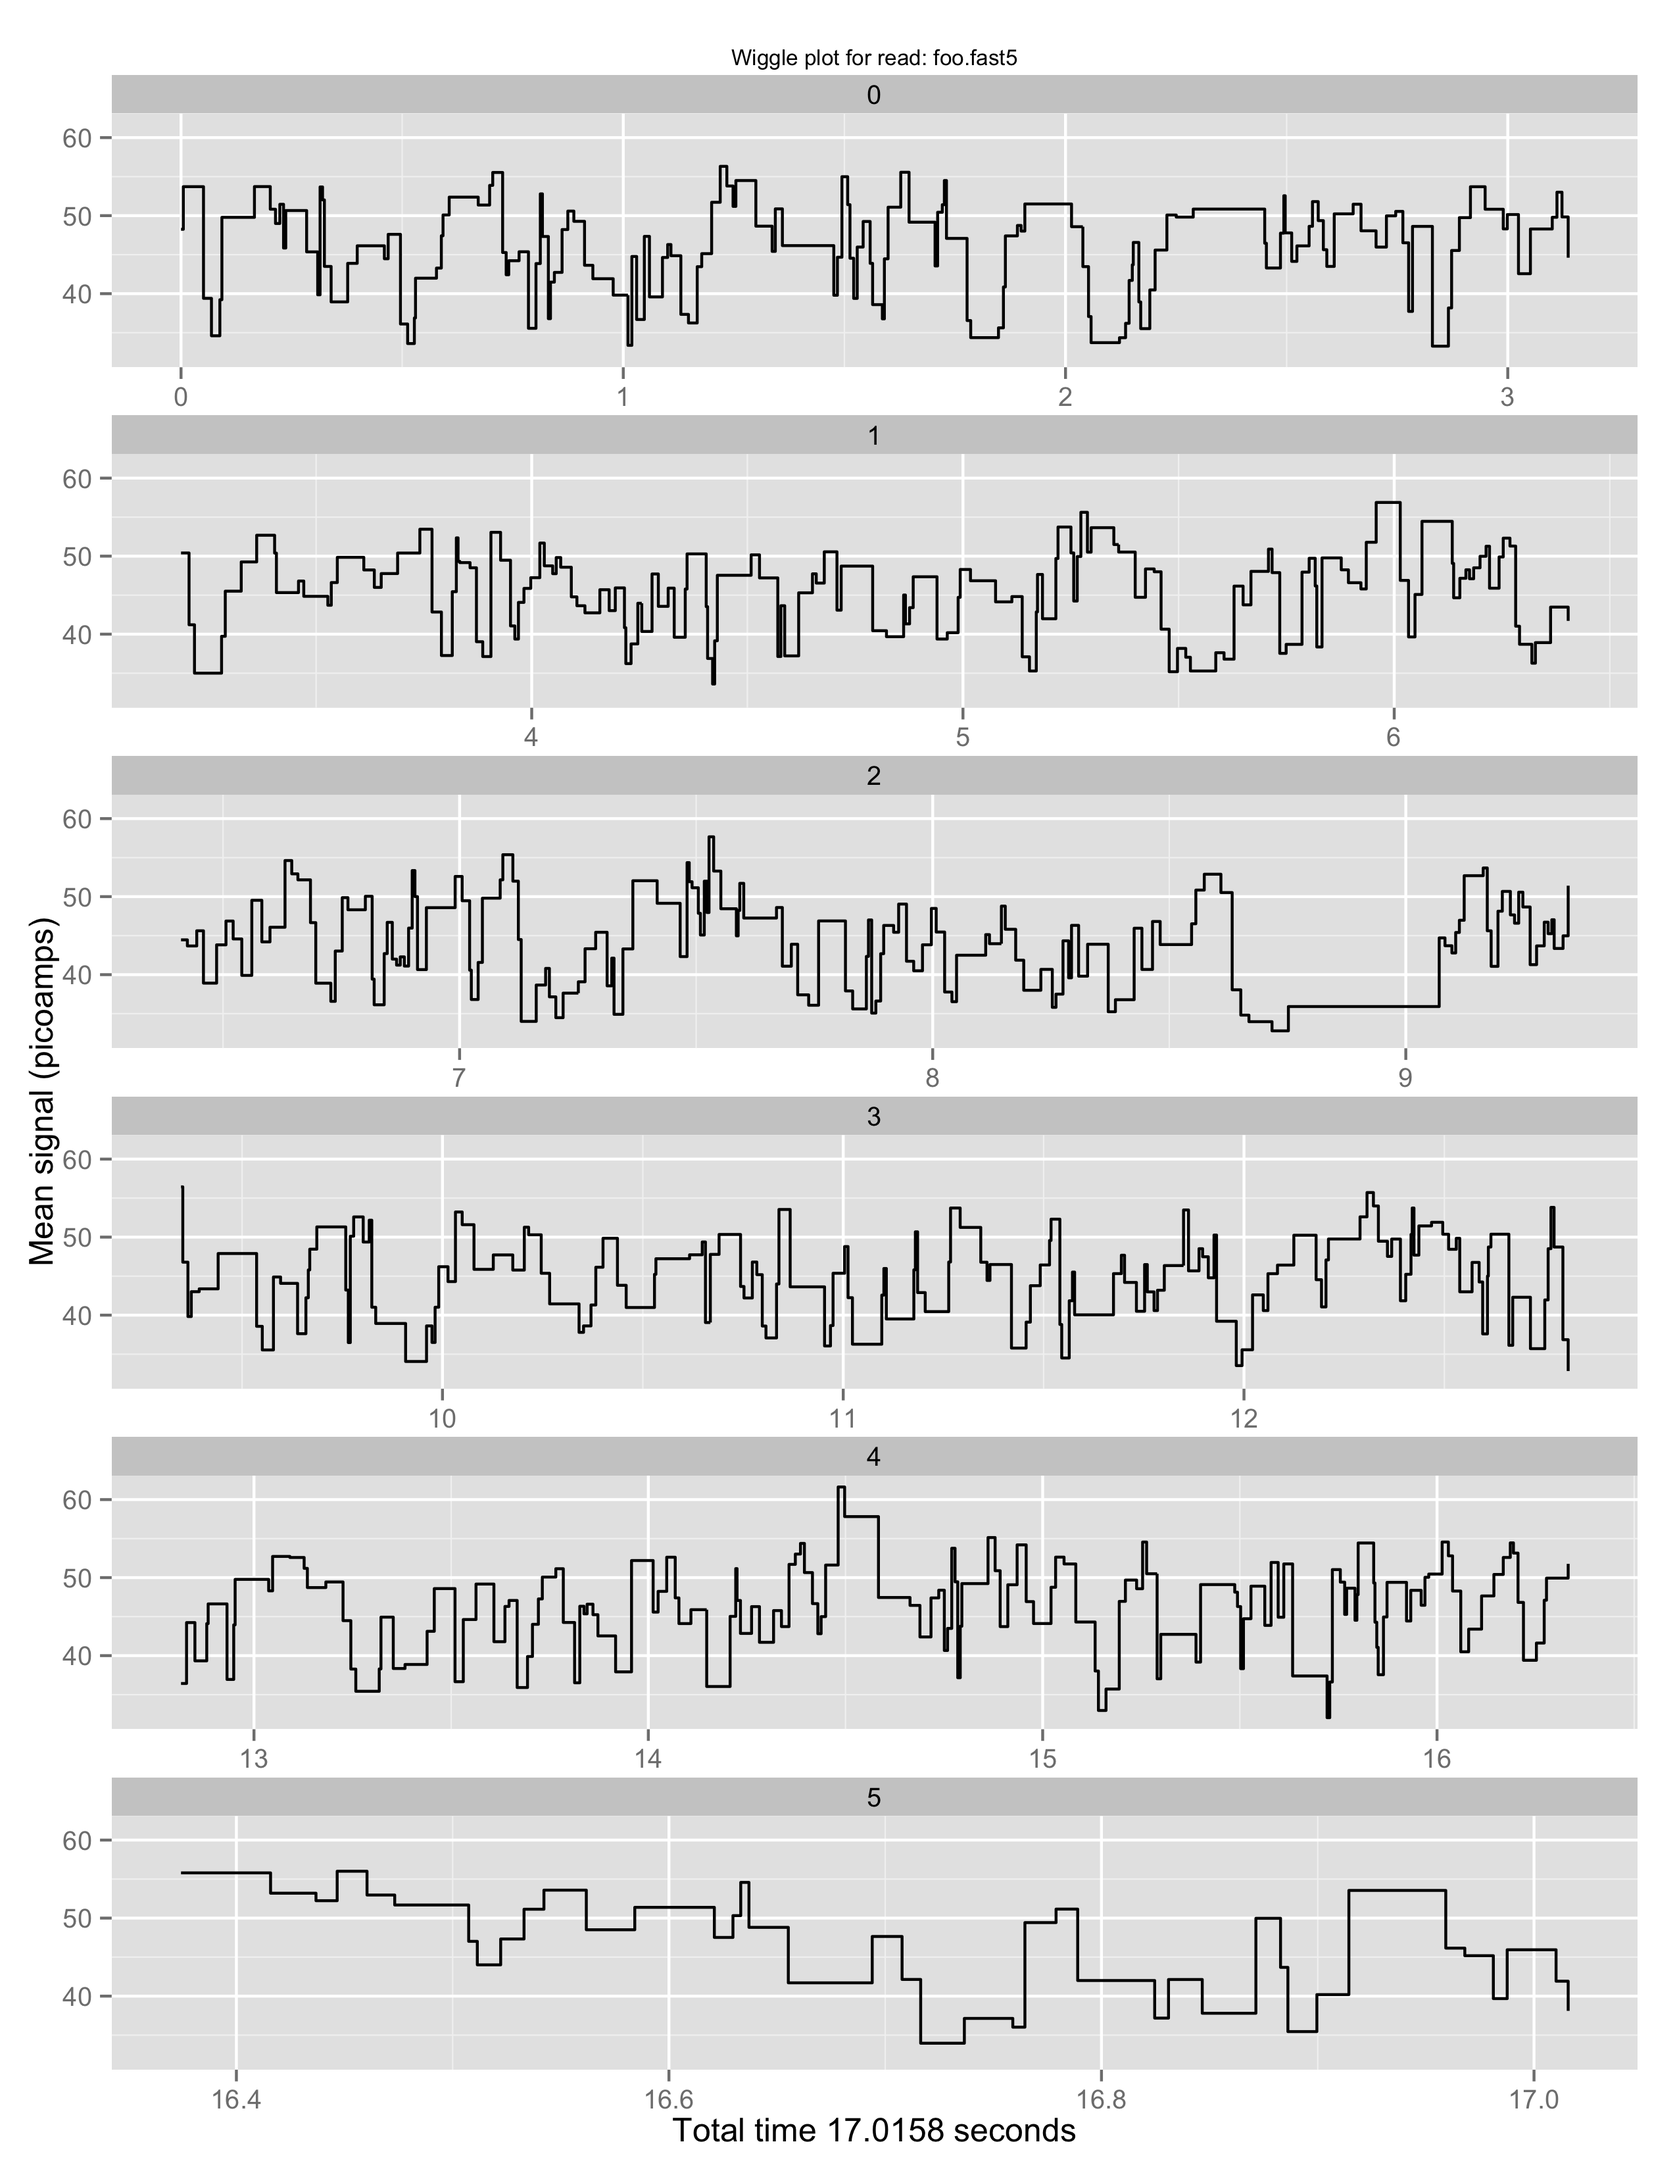
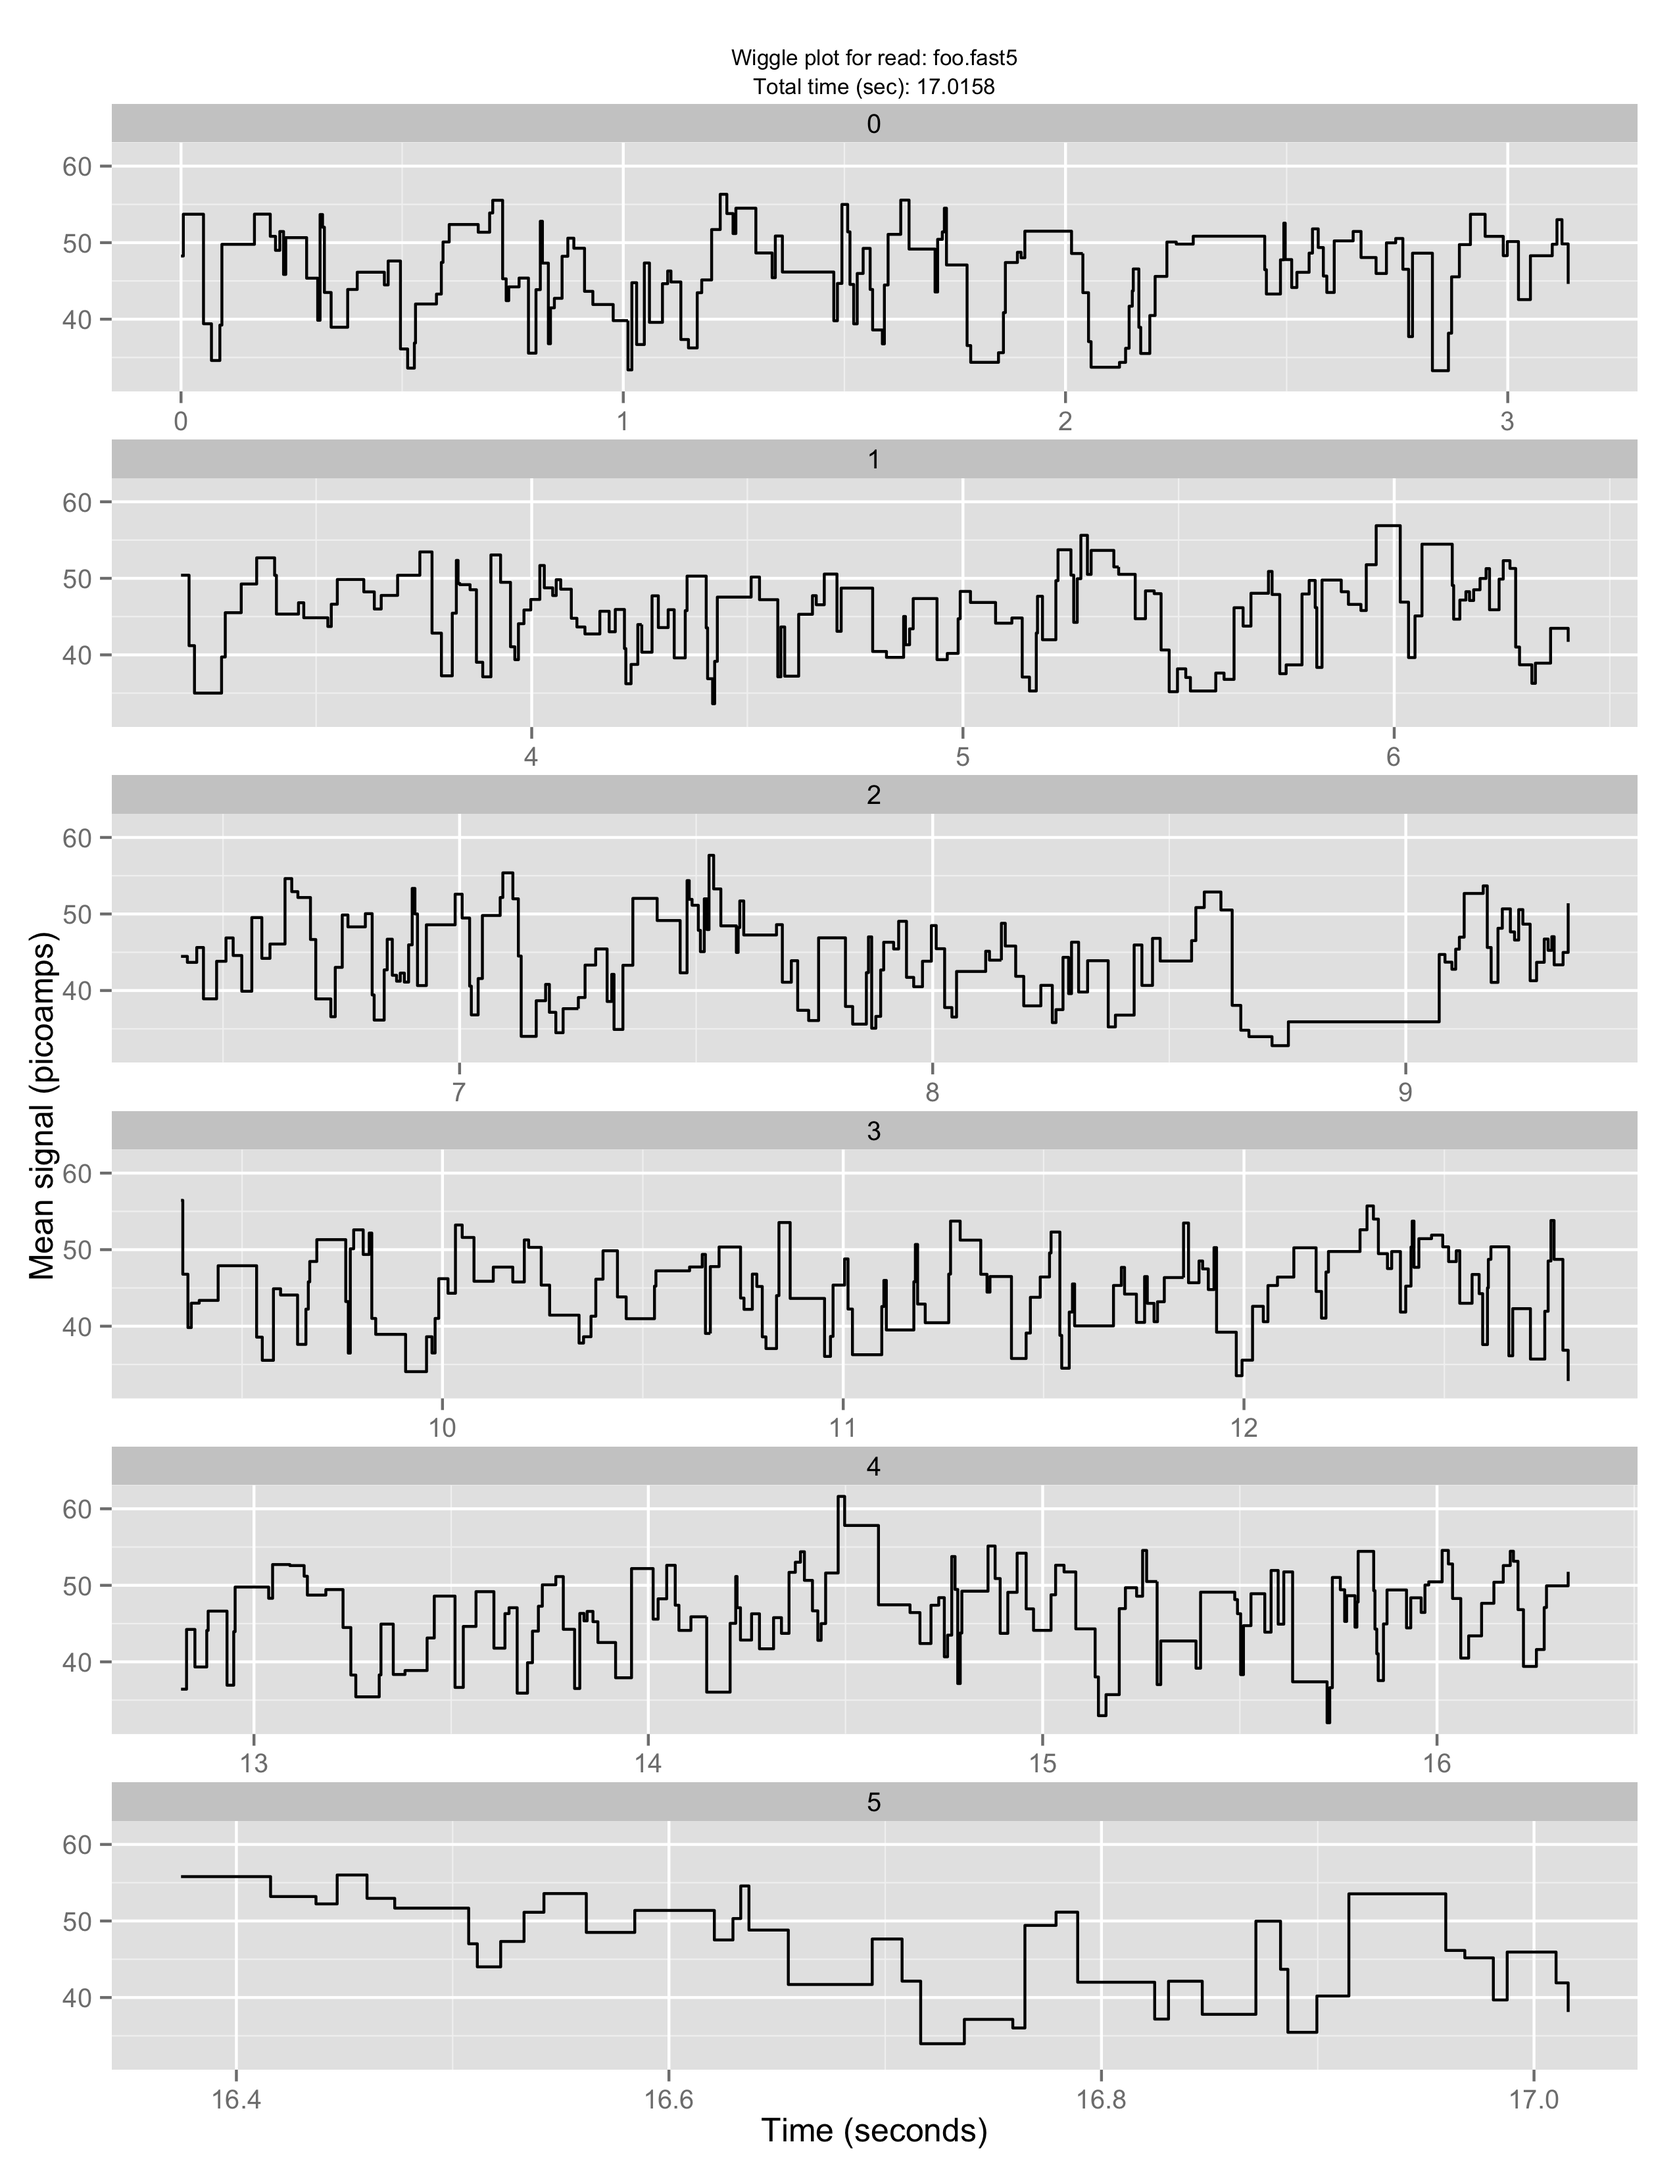
tweak axes and title

diff --git a/poretools/wiggle.py b/poretools/wiggle.py
@@ -33,9 +33,9 @@ def plot_wiggle(filename, saveas, start_times, mean_signals):
 	pp = gp + ggplot2.aes_string(x='start', y='mean') \
 		+ ggplot2.geom_step() \
 		+ ggplot2.facet_wrap(robjects.Formula('~cat'), ncol=1, scales="free_x") \
-		+ ggplot2.scale_x_continuous('Total time ' + str(total_time) + ' seconds') \
+		+ ggplot2.scale_x_continuous('Time (seconds)') \
 		+ ggplot2.scale_y_continuous('Mean signal (picoamps)') \
-		+ ggplot2.ggtitle('Wiggle plot for read: ' + filename) \
+		+ ggplot2.ggtitle('Wiggle plot for read: ' + filename + "\nTotal time (sec): " + str(total_time)) \
 		+ ggplot2.theme(**{'plot.title': ggplot2.element_text(size=8)})
 
 	if saveas is not None:
